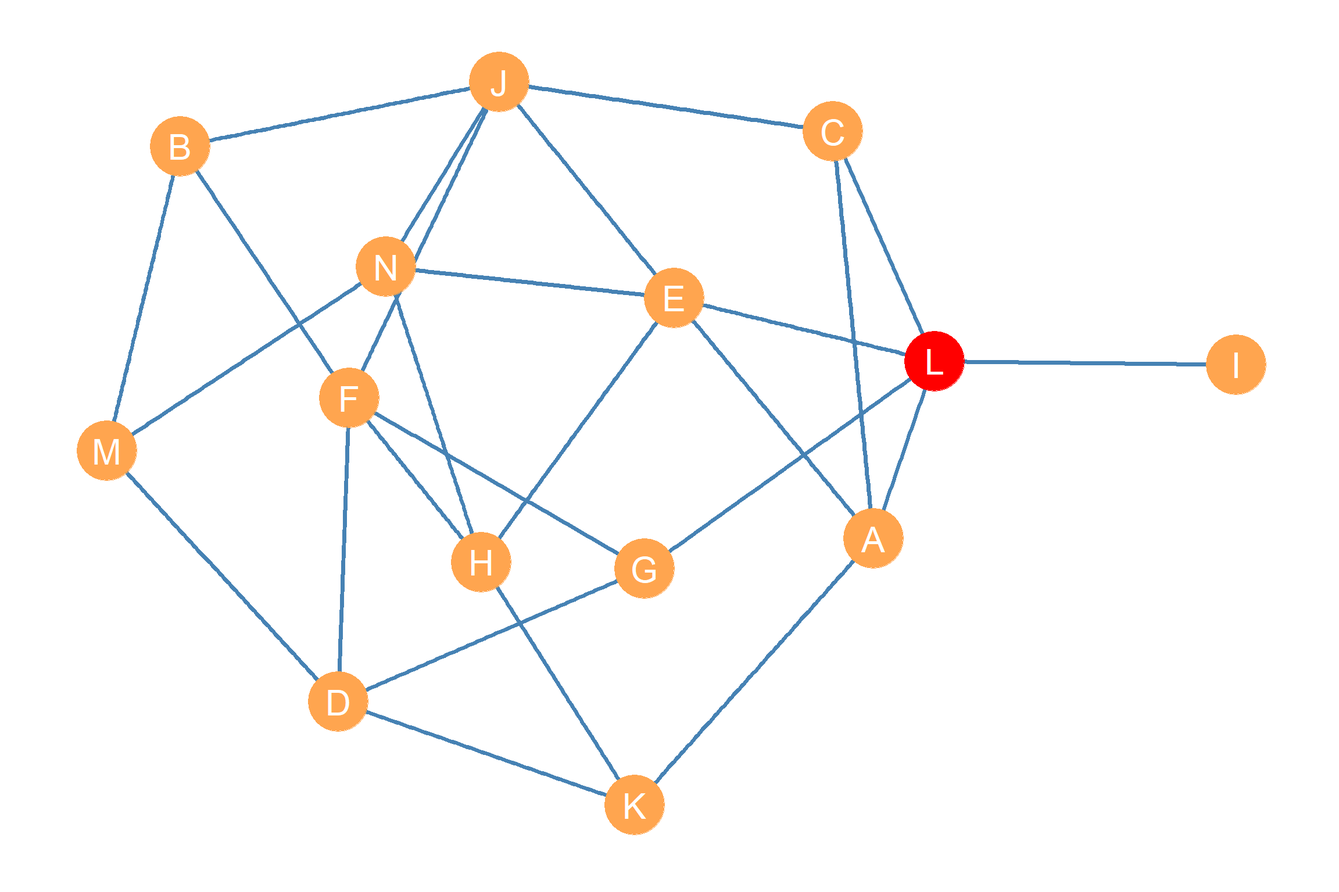
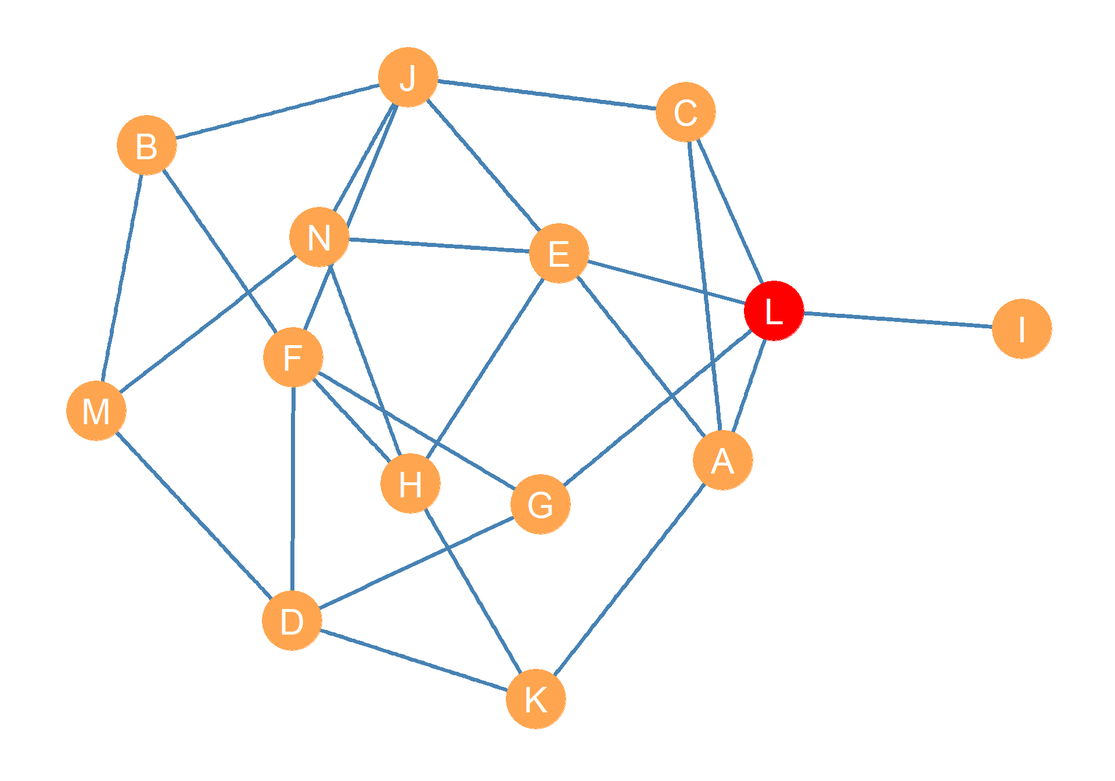
updated betweenness centrality lesson

diff --git a/docs/lesson-sna-betweenness.html b/docs/lesson-sna-betweenness.html
@@ -318,22 +318,23 @@ div.csl-indent {
 
 </header>
 
-<p>Recall that in our discussion of shortest paths between pair of nodes in <a href="lesson-graphs-paths.html"><span>Chapter&nbsp;9</span></a>, we noted the importance of the <strong>inner nodes</strong> that <em>intervene</em> or <em>mediate</em> between any one node in the graph that wants to reach another one. Nodes that stand in these <strong>brokerage</strong> or <strong>gatekeeper</strong> slots in the network <span class="citation" data-cites="gould_fernandez89">(<a href="#ref-gould_fernandez89" role="doc-biblioref">Gould and Fernandez 1989</a>)</span>, occupy an important position <span class="citation" data-cites="marsden83">(<a href="#ref-marsden83" role="doc-biblioref">Marsden 1983</a>)</span>, and this is different from having a lot of contacts (like degree centrality), or being able to reach lots of other nodes by traversing relatively small distances (like closeness centrality). Instead, this is about being <em>in-between</em> the indirect communications of other nodes in graph. In this chapter we discuss a couple of centrality metrics designed to capture the extent to which nodes serves as intermediaries between other nodes in a social network.</p>
+<p>Recall that in our discussion of shortest paths between pair of nodes in <a href="lesson-graphs-paths.html"><span>Chapter&nbsp;9</span></a>, we noted the importance of the <strong>inner nodes</strong> that <em>intervene</em> or <em>mediate</em> between any one node in the graph that wants to reach another one. Nodes that stand in these <strong>brokerage</strong> or <strong>gatekeeper</strong> slots in the network <span class="citation" data-cites="gould_fernandez89">(<a href="#ref-gould_fernandez89" role="doc-biblioref">Gould and Fernandez 1989</a>)</span>, occupy an important position <span class="citation" data-cites="marsden83">(<a href="#ref-marsden83" role="doc-biblioref">Marsden 1983</a>)</span>, and this is different from having a lot of contacts (like degree centrality; see <a href="lesson-sna-degree-centrality.html"><span>Chapter&nbsp;20</span></a>), or being able to reach lots of other nodes by traversing relatively small distances (like closeness centrality; see <span class="quarto-unresolved-ref">?sec-closcent</span>).</p>
+<p>Instead, the kind of centrality we are talking about is about being <em>in-between</em> the indirect communications of other nodes in graph. In this chapter we discuss some centrality metrics designed to capture the extent to which nodes serves as <em>intermediaries</em> between other nodes in a social network.</p>
 <section id="stress-centrality" class="level2 page-columns page-full" data-number="22.1">
 <h2 data-number="22.1" class="anchored" data-anchor-id="stress-centrality"><span class="header-section-number">22.1</span> Stress Centrality</h2>
-<p>For instance, let’s say you were actor <em>K</em> in the network shown in <a href="#fig-bet">Figure&nbsp;<span>22.1</span></a>, and you wanted to know who is the person that you depend on the most to communicate with actor <em>J</em>. Here dependence means that you are forced to “go through them.” One way <em>K</em> could figure this out is by listing every shortest path having them as the <strong>origin node</strong> and having <em>J</em> as the <strong>destination node</strong>.</p>
-<p>After you have this list, you can see which of other other nodes shows up as an <strong>inner node</strong>—an intermediary or gatekeeper—in those paths the most times. Remember that two actors can be indirectly linked by <em>multiple shortest paths of the same length</em>, and that we can figure out how many short paths links pairs of actors in the network using the <strong>shortest paths matrix</strong>.</p>
+<p>For instance, let’s say you were actor <span class="math inline">\(K\)</span> in the network shown in <a href="#fig-bet">Figure&nbsp;<span>22.1</span></a>, and you wanted to know who is the person that you depend on the most to communicate with actor <span class="math inline">\(J\)</span>. Here dependence means that you are forced to “go through them.” One way <span class="math inline">\(K\)</span> could figure this out is by listing every shortest path having them as the <strong>origin node</strong> and having <span class="math inline">\(J\)</span> as the <strong>destination node</strong>.</p>
+<p>After you have this list, you can see which of other other nodes shows up as an <strong>inner node</strong>—an intermediary or gatekeeper—in those paths the most times. Remember that two actors can be indirectly linked by <em>multiple shortest paths of the same length</em>.</p>
 <div class="cell" data-fig-cap-location="margin">
 <div class="cell-output-display">
 <div id="fig-bet" class="quarto-figure quarto-figure-center anchored">
 <figure class="figure">
-<p><img src="lesson-sna-betweenness_files/figure-html/fig-bet-1.png" class="img-fluid figure-img" width="1152"></p>
+<p><img src="lesson-sna-betweenness_files/figure-html/fig-bet-1.png" class="img-fluid figure-img" width="960"></p>
 <p></p><figcaption class="figure-caption">Figure&nbsp;22.1: An undirected graph showing the node with the maximum betweenness centrality (in red)</figcaption><p></p>
 </figure>
 </div>
 </div>
 </div>
-<p>This shortest path list would look like this:</p>
+<p>This shortest path list between <span class="math inline">\(K\)</span> and <span class="math inline">\(J\)</span> would look like this:</p>
 <ol type="1">
 <li><p><span class="math inline">\(\{KH, HF, FJ\}\)</span></p></li>
 <li><p><span class="math inline">\(\{KD, DF, FJ\}\)</span></p></li>
@@ -342,9 +343,9 @@ div.csl-indent {
 <li><p><span class="math inline">\(\{KA, AE, EJ\}\)</span></p></li>
 <li><p><span class="math inline">\(\{KH, HE, EJ\}\)</span></p></li>
 </ol>
-<p>There are six shortest paths (in this case of length <span class="math inline">\(l = 3\)</span>) indirectly connecting actors <em>K</em> and <em>J</em> in <a href="#fig-bet">Figure&nbsp;<span>22.1</span></a>, with nodes <span class="math inline">\(\{A, C, D, E, F, H, N\}\)</span> showing up as an inner node in at least one of those paths. To see which other actor in the network is the most <em>frequent intermediary</em> between <em>K</em> and <em>J</em>, we can create a list with the number of times each of these nodes shows up as an inner node in the shortest path list shown earlier.</p>
-<p>We will call each of these numbers <span class="math inline">\(n_{K(x)J}\)</span>, where the little <span class="math inline">\(x\)</span> in parentheses indicates the inner node we are talking about standing between <span class="math inline">\(K\)</span> and <span class="math inline">\(J\)</span>. For instance, <span class="math inline">\(n_{K(A)J}\)</span> refers to the number of times node <span class="math inline">\(A\)</span> stands on a shortest path linking <span class="math inline">\(K\)</span> and <span class="math inline">\(J\)</span>, and so forth for each of the nodes in the inner node set <span class="math inline">\(\{A, C, D, E, F, H, N\}\)</span>.</p>
-<p>The table containing this information would look like that shown in <a href="#tbl-pairdep">Table&nbsp;<span>22.1</span></a>.</p>
+<p>As the list shows, there are six shortest paths (in this case of length <span class="math inline">\(l = 3\)</span>) indirectly connecting actors <span class="math inline">\(K\)</span> and <span class="math inline">\(J\)</span> in <a href="#fig-bet">Figure&nbsp;<span>22.1</span></a>, with nodes <span class="math inline">\(\{A, C, D, E, F, H, N\}\)</span> showing up as an inner node in at least one of those paths.</p>
+<p>To see which other actor in the network is the most <em>frequent intermediary</em> between <span class="math inline">\(K\)</span> and <span class="math inline">\(J\)</span>, we can create a list with the number of times each of these nodes shows up as an inner node in the shortest path list shown earlier. We will call each of these numbers <span class="math inline">\(n_{K(x)J}\)</span>, where the little <span class="math inline">\(x\)</span> in parentheses in-between the little <span class="math inline">\(K\)</span> and the little <span class="math inline">\(J\)</span> indicates the inner node we are talking about. For instance, <span class="math inline">\(n_{K(A)J}\)</span> refers to the number of times node <span class="math inline">\(A\)</span> stands on a shortest path linking <span class="math inline">\(K\)</span> and <span class="math inline">\(J\)</span>, and so forth for each of the nodes in the inner node set <span class="math inline">\(\{A, C, D, E, F, H, N\}\)</span>.</p>
+<p>Using the the shortest path list mentioned earlier, the table containing this information would look like that shown in <a href="#tbl-pairdep">Table&nbsp;<span>22.1</span></a>.</p>
 <div class="cell page-columns page-full">
 <div class="cell-output-display page-columns page-full">
 <div id="tbl-pairdep" class="anchored page-columns page-full">
@@ -398,18 +399,18 @@ div.csl-indent {
 <div class="quarto-table-caption margin-caption">Table&nbsp;22.1: Intermediaries between nodes J and K</div></div>
 </div>
 </div>
-<p>So it looks like, looking at the second column of <a href="#tbl-pairdep">Table&nbsp;<span>22.1</span></a>, that <em>H</em> is the other actor that <em>J</em> depends on the most to reach <em>K</em>, since they show up three times in the paths linking <em>K</em> and <em>J</em>—meaning that <span class="math inline">\(n_{K(H)J} = 3\)</span>—beating out all the other nodes.</p>
+<p>So it looks like, looking at the second column of <a href="#tbl-pairdep">Table&nbsp;<span>22.1</span></a>, that <span class="math inline">\(H\)</span> is the other actor that <span class="math inline">\(J\)</span> depends on the most to reach <span class="math inline">\(K\)</span>, since they show up three times in the paths linking <span class="math inline">\(K\)</span> and <span class="math inline">\(J\)</span> (<span class="math inline">\(n_{K(H)J} = 3\)</span>) beating out all the other nodes.</p>
 <p>We can use this information—aggregated across all pairs of nodes in the graph for every other node—to construct a centrality metric. That is, for each node in the graph <span class="math inline">\(k\)</span> we can ask how often they show up as an intermediary between every other pair of nodes in the graph <span class="math inline">\(i\)</span> and <span class="math inline">\(j\)</span> and then we sum up this quantity across all pairs. This centrality index was first proposed by Alfonso <span class="citation" data-cites="shimbel53">Shimbel (<a href="#ref-shimbel53" role="doc-biblioref">1953</a>)</span> and it is called the <strong>stress centrality</strong>.</p>
 <p>In equation form you write the stress centrality index like this:</p>
 <p><span id="eq-stress"><span class="math display">\[
 C^{STRESS}_k = \sum_{i \neq k} \sum_{j \neq k} n_{i(k)j}
 \tag{22.1}\]</span></span></p>
-<p>Which says that the stress centrality of node <span class="math inline">\(k\)</span> is the sum of the number of times they stand in a shortest path between each pair of nodes in the graph, excluding the pairs that include <span class="math inline">\(k\)</span> (recall that <span class="math inline">\(i \neq k\)</span> means “<span class="math inline">\(i\)</span> does not equal <span class="math inline">\(k\)</span>” in English).</p>
-<div class="cell page-columns page-full">
-<div class="cell-output-display page-columns page-full">
-<div id="tbl-stress" class="anchored page-columns page-full">
+<p>Which says that the stress centrality of node <span class="math inline">\(k\)</span> is the sum of the number of times they stand in a shortest path between each pair of nodes in the graph, excluding the pairs that include <span class="math inline">\(k\)</span> as either a starting or ending node in the path connecting them (recall that <span class="math inline">\(i \neq k\)</span> means “<span class="math inline">\(i\)</span> does not equal <span class="math inline">\(k\)</span>” in English).</p>
+<div class="cell">
+<div class="cell-output-display">
+<div id="tbl-stress" class="anchored">
 
-<table class="table table-hover table-condensed table-responsive" style="margin-left: auto; margin-right: auto;">
+<table class="table table-hover table-condensed table-responsive" style="margin-left: auto; margin-right: auto;"><caption>Table&nbsp;22.2:  Stress centrality scores. </caption>
  <thead>
   <tr>
    <th style="text-align:center;"> A </th>
@@ -448,92 +449,79 @@ C^{STRESS}_k = \sum_{i \neq k} \sum_{j \neq k} n_{i(k)j}
 </tbody>
 </table>
 
-<div class="quarto-table-caption margin-caption">Table&nbsp;22.2:  Stress centrality scores. </div></div>
+</div>
 </div>
 </div>
 <p><a href="#tbl-stress">Table&nbsp;<span>22.2</span></a> shows the results of computing the stress centralities for all the nodes in <a href="#fig-bet">Figure&nbsp;<span>22.1</span></a>. It is clear that according to this metric, nodes <span class="math inline">\(E\)</span> and <span class="math inline">\(J\)</span> win out, standing in the middle of a whopping <span class="math inline">\(n_{i(E)j} = n_{i(J)j} = 48\)</span> shortest paths between other nodes in <a href="#fig-bet">Figure&nbsp;<span>22.1</span></a>. Node <span class="math inline">\(I\)</span> receives a stress centrality score of <span class="math inline">\(n_{i(I)j} = 0\)</span> because they are not an inner node between any other pair of nodes.</p>
 </section>
-<section id="betweenness-centrality" class="level2 page-columns page-full" data-number="22.2">
+<section id="betweenness-centrality" class="level2" data-number="22.2">
 <h2 data-number="22.2" class="anchored" data-anchor-id="betweenness-centrality"><span class="header-section-number">22.2</span> Betweenness Centrality</h2>
-<p>While Shimbel’s Stress Centrality idea goes a long way to capturing the idea of who the most intermediary nodes are, it can be improved upon. This is what was noted by Anthonisse and later Linton Freeman in a landmark series of papers, where they developed a centrality metric aimed to measure node intermediation called <strong>betweenness centrality</strong> <span class="citation" data-cites="freeman77">Freeman (<a href="#ref-freeman80" role="doc-biblioref">1980</a>)</span></p>
+<p>While Shimbel’s Stress Centrality idea goes a long way to capturing the idea of who the most intermediary nodes are, it can be improved upon. This is what was noted by Anthonisse and later Linton Freeman in a landmark series of papers, where they developed a centrality metric aimed to measure node intermediation called <strong>betweenness centrality</strong> <span class="citation" data-cites="anthonisse71 freeman77 freeman80">(<a href="#ref-anthonisse71" role="doc-biblioref">Anthonisse 1971</a>; <a href="#ref-freeman77" role="doc-biblioref">Freeman 1977</a>, <a href="#ref-freeman80" role="doc-biblioref">1980</a>)</span></p>
 <p>The basic observation behind betweenness centrality is pretty simple. It rests on the idea that rather than <em>counting</em> the raw number of shortest paths a particular node sits on as an inner node, it is better to look at the <em>percentage</em> (or proportion) of such paths.</p>
-<p>Let us return to our earlier example featuring nodes <span class="math inline">\(K\)</span> and <span class="math inline">\(J\)</span> as the end nodes. To measure the proportion of shortest paths featuring nodes in the inner node set <span class="math inline">\(\{A, C, D, E, F, H, N\}\)</span> standing between <span class="math inline">\(K\)</span> and <span class="math inline">\(J\)</span>, we simplyt take <span class="math inline">\(n_{K(x)J}\)</span> and divide it by the total number of shortests paths between <span class="math inline">\(K\)</span> and <span class="math inline">\(J\)</span>, whih we already noted was six. Let us call this new quantity <span class="math inline">\(p_{K(x)J}\)</span> which can be read as “the proportion of paths between <em>K</em> and <em>J</em> featuring node <span class="math inline">\(x\)</span> as an inner node.” This is shown in the third column of <a href="#tbl-pairdep">Table&nbsp;<span>22.1</span></a>.</p>
-<p>Let’s say we wanted to calculate <span class="math inline">\(p_{K(x)J}\)</span> for node <span class="math inline">\(H\)</span>, written <span class="math inline">\(p_{K(H)J}\)</span>. We can write this in equation form like this:</p>
+<p>Let us return to our earlier example featuring nodes <span class="math inline">\(K\)</span> and <span class="math inline">\(J\)</span> as the end nodes. To measure the proportion of shortest paths featuring nodes in the inner node set <span class="math inline">\(\{A, C, D, E, F, H, N\}\)</span> standing between <span class="math inline">\(K\)</span> and <span class="math inline">\(J\)</span>, we simply take <span class="math inline">\(n_{K(x)J}\)</span> and divide it by the <em>total</em> number of shortest paths between <span class="math inline">\(K\)</span> and <span class="math inline">\(J\)</span>. We will call this quantity <span class="math inline">\(n_{KJ}\)</span>, and we already noted from the list we constructed before that was <span class="math inline">\(n_{KJ} = 6\)</span>. The new quantity that results from dividing up <span class="math inline">\(n_{K(x)J}\)</span> (for any <span class="math inline">\(x\)</span>) by <span class="math inline">\(n_{KJ}\)</span> we will call <span class="math inline">\(p_{K(x)J}\)</span> where the <span class="math inline">\(p\)</span> is a shorthand for the <em>proportion</em> of paths between <span class="math inline">\(K\)</span> and <span class="math inline">\(J\)</span> featuring node <span class="math inline">\(x\)</span> as an inner node.</p>
+<p>For instance, let’s say we wanted to calculate <span class="math inline">\(p_{K(x)J}\)</span> for node <span class="math inline">\(H\)</span>, written <span class="math inline">\(p_{K(H)J}\)</span>. We can write this in equation form like this:</p>
 <p><span id="eq-pairdep"><span class="math display">\[
   p_{K(H)J} = \frac{n_{K(H)J}}{n_{KJ}} = \frac{3}{6} = 0.5
 \tag{22.2}\]</span></span></p>
-<p>Just as before, in <a href="#eq-pairdep">Equation&nbsp;<span>22.2</span></a>, <span class="math inline">\(n_{K(H)J}\)</span> is the number of shortest paths linking <em>K</em> and <em>J</em> featuring <em>H</em> as an inner node, and <span class="math inline">\(n_{KJ}\)</span> is the <em>total</em> number of shortest paths linking <em>K</em> and <em>J</em>.</p>
-<p><span class="citation" data-cites="freeman80">Freeman (<a href="#ref-freeman80" role="doc-biblioref">1980</a>)</span> calls the measure in <a href="#eq-pairdep">Equation&nbsp;<span>22.2</span></a> the <strong>pair-dependency</strong> of actor <em>K</em> on actor <em>H</em> to reach a given node <em>J</em>. In this case, <span class="math inline">\(n_{K(H)J} = 3\)</span> and <span class="math inline">\(n_{KJ} = 6\)</span>, which means that actor <em>K</em> depends on actor <em>H</em> for fifty percent of their shortest path access to <em>J</em>. Making <em>H</em> the actor in the network <em>J</em> depends on the most to be able to reach <em>J</em>. The third column of <a href="#tbl-pairdep">Table&nbsp;<span>22.1</span></a> shows the <span class="math inline">\(p_{K(x)J}\)</span> scores for all the nodes in the inner node set <span class="math inline">\(\{A, C, D, E, F, H, N\}\)</span> standing between <span class="math inline">\(K\)</span> and <span class="math inline">\(J\)</span>.</p>
-<p>Generalizing this approach, we can do the same for each triplet of actors <em>i</em>, <em>j</em>, and <em>k</em> in <a href="#fig-bet">Figure&nbsp;<span>22.1</span></a> This is the basis for calculating <strong>betweenness centrality</strong>. That is, we can count the number of times <em>k</em> stands on the shortest path between two other actors <em>i</em> and <em>j</em>, we can then divide it by the total number of shortest paths linking actors <em>i</em> and <em>j</em> in the network.</p>
-<p>This ratio, written <span class="math inline">\(\frac{n_{i(k)j}}{n_{ij}}\)</span> then gives us the <em>proportion</em> of shortest paths in the network that have <em>i</em> and <em>j</em> as the end nodes and that feature <em>k</em> as an intermediary inner node, written <span class="math inline">\(p_{i(k)j}\)</span>. This can range from zero (no shortest paths between <em>i</em> and <em>j</em> feature node <em>k</em> as an intermediary) to one (all the shortest paths between <em>i</em> and <em>j</em> feature node <em>k</em> as an intermediary).</p>
-<p>We can then use the following equation to compute the average of this proportion for each node <em>k</em> across each pair of actors in the network <em>i</em> and <em>j</em>:</p>
+<p>Just as before, in <a href="#eq-pairdep">Equation&nbsp;<span>22.2</span></a>, <span class="math inline">\(n_{K(H)J}\)</span> is the number of shortest paths linking <span class="math inline">\(K\)</span> and <span class="math inline">\(J\)</span> featuring <span class="math inline">\(H\)</span> as an inner node, and <span class="math inline">\(n_{KJ}\)</span> is the <em>total</em> number of shortest paths linking <span class="math inline">\(K\)</span> and <span class="math inline">\(J\)</span>. In this case, <span class="math inline">\(n_{K(H)J} = 3\)</span> and <span class="math inline">\(n_{KJ} = 6\)</span>, which means that actor <span class="math inline">\(K\)</span> depends on actor <span class="math inline">\(H\)</span> for <em>fifty percent</em> of their shortest path access to <span class="math inline">\(J\)</span>. Making <span class="math inline">\(H\)</span> the actor in the network <span class="math inline">\(K\)</span> depends on the most to be able to reach <span class="math inline">\(J\)</span>. The third column of <a href="#tbl-pairdep">Table&nbsp;<span>22.1</span></a> shows the <span class="math inline">\(p_{K(x)J}\)</span> scores for all the nodes in the inner node set <span class="math inline">\(\{A, C, D, E, F, H, N\}\)</span> standing between <span class="math inline">\(K\)</span> and <span class="math inline">\(J\)</span>. <span class="citation" data-cites="freeman80">Freeman (<a href="#ref-freeman80" role="doc-biblioref">1980</a>)</span> calls the measure in <a href="#eq-pairdep">Equation&nbsp;<span>22.2</span></a> the <strong>pair-dependency</strong> of actor <span class="math inline">\(K\)</span> on actor <span class="math inline">\(H\)</span> to reach a given node <span class="math inline">\(J\)</span>.</p>
+<p>Generalizing this approach, we can do the same for each triplet of actors <span class="math inline">\(i\)</span>, <span class="math inline">\(j\)</span>, and <span class="math inline">\(k\)</span> in <a href="#fig-bet">Figure&nbsp;<span>22.1</span></a> This is the basis for calculating <strong>betweenness centrality</strong>. That is, we can count the number of times <span class="math inline">\(K\)</span> stands on the shortest path between two other actors <span class="math inline">\(i\)</span> and <span class="math inline">\(j\)</span>, we can then divide it by the total number of shortest paths linking actors <span class="math inline">\(i\)</span> and <span class="math inline">\(j\)</span> in the network. As noted, this ratio gives us the <em>proportion</em> of shortest paths in the network that have <span class="math inline">\(i\)</span> and <span class="math inline">\(J\)</span> as the end nodes and that feature <span class="math inline">\(K\)</span> as an intermediary inner node, which we can call <span class="math inline">\(p_{i(k)j}\)</span>. In equation form:</p>
+<p><span id="eq-pk"><span class="math display">\[
+p_{i(k)j} = \frac{n_{i(k)j}}{n_{ij}}
+\tag{22.3}\]</span></span></p>
+<p>For each node triple in the graph, <span class="math inline">\(p_{i(k)j}\)</span> can range from zero (no shortest paths between <span class="math inline">\(i\)</span> and <span class="math inline">\(j\)</span> feature node <span class="math inline">\(k\)</span> as an intermediary) to one (all the shortest paths between <span class="math inline">\(i\)</span> and <span class="math inline">\(J\)</span> feature node <span class="math inline">\(k\)</span> as an intermediary). <a href="#eq-pk">Equation&nbsp;<span>22.3</span></a> can also be interpreted as giving us the <em>probability</em> that if we were to select a random shortest path among the ones that link nodes <span class="math inline">\(i\)</span> and <span class="math inline">\(j\)</span>, we would find <span class="math inline">\(k\)</span> in the middle of it.</p>
+<p>We can then use the following equation to compute the sum of these proportions for each node <span class="math inline">\(k\)</span> across each pair of actors in the network <span class="math inline">\(i\)</span> and <span class="math inline">\(j\)</span>. This gives us the total <strong>betweenness centrality</strong> of any node <span class="math inline">\(k\)</span> in the graph:</p>
 <p><span id="eq-betcen"><span class="math display">\[
   C_k^{BET} = \sum_{i \neq k} \sum_{j \neq k} p_{i(k)j}
-\tag{22.3}\]</span></span></p>
-<p>Computing this quantity for the graph shown in <a href="#fig-bet">Figure&nbsp;<span>22.1</span></a>, yields the betweenness centrality scores shown in <a href="#tbl-bet">Table&nbsp;<span>22.3</span></a>.</p>
-<div class="cell page-columns page-full">
-<div class="cell-output-display page-columns page-full">
-<div id="tbl-bet" class="anchored page-columns page-full">
-<table class="table table-sm table-striped">
+\tag{22.4}\]</span></span></p>
+<p>Computing this sum for each node in the graph shown in <a href="#fig-bet">Figure&nbsp;<span>22.1</span></a>, yields the betweenness centrality scores shown in <a href="#tbl-bet">Table&nbsp;<span>22.3</span></a>.</p>
+<div class="cell">
+<div class="cell-output-display">
+<div id="tbl-bet" class="anchored">
 
-<colgroup>
-<col style="width: 8%">
-<col style="width: 4%">
-<col style="width: 7%">
-<col style="width: 8%">
-<col style="width: 7%">
-<col style="width: 8%">
-<col style="width: 7%">
-<col style="width: 7%">
-<col style="width: 7%">
-<col style="width: 7%">
-<col style="width: 7%">
-<col style="width: 4%">
-<col style="width: 7%">
-<col style="width: 4%">
-</colgroup>
-<thead>
-<tr class="header">
-<th style="text-align: center;">E</th>
-<th style="text-align: center;">A</th>
-<th style="text-align: center;">M</th>
-<th style="text-align: center;">L</th>
-<th style="text-align: center;">B</th>
-<th style="text-align: center;">J</th>
-<th style="text-align: center;">G</th>
-<th style="text-align: center;">N</th>
-<th style="text-align: center;">F</th>
-<th style="text-align: center;">H</th>
-<th style="text-align: center;">D</th>
-<th style="text-align: center;">C</th>
-<th style="text-align: center;">K</th>
-<th style="text-align: center;">I</th>
-</tr>
-</thead>
+<table class="table table-hover table-condensed table-responsive" style="margin-left: auto; margin-right: auto;"><caption>Table&nbsp;22.3:  Betweenness centrality scores. </caption>
+ <thead>
+  <tr>
+   <th style="text-align:center;"> A </th>
+   <th style="text-align:center;"> B </th>
+   <th style="text-align:center;"> C </th>
+   <th style="text-align:center;"> D </th>
+   <th style="text-align:center;"> E </th>
+   <th style="text-align:center;"> F </th>
+   <th style="text-align:center;"> G </th>
+   <th style="text-align:center;"> H </th>
+   <th style="text-align:center;"> I </th>
+   <th style="text-align:center;"> J </th>
+   <th style="text-align:center;"> K </th>
+   <th style="text-align:center;"> L </th>
+   <th style="text-align:center;"> M </th>
+   <th style="text-align:center;"> N </th>
+  </tr>
+ </thead>
 <tbody>
-<tr class="odd">
-<td style="text-align: center;">11.4</td>
-<td style="text-align: center;">5</td>
-<td style="text-align: center;">2.8</td>
-<td style="text-align: center;">16.4</td>
-<td style="text-align: center;">1.5</td>
-<td style="text-align: center;">10.8</td>
-<td style="text-align: center;">6.3</td>
-<td style="text-align: center;">5.3</td>
-<td style="text-align: center;">9.3</td>
-<td style="text-align: center;">4.8</td>
-<td style="text-align: center;">6.8</td>
-<td style="text-align: center;">3</td>
-<td style="text-align: center;">3.7</td>
-<td style="text-align: center;">0</td>
-</tr>
+  <tr>
+   <td style="text-align:center;"> 5 </td>
+   <td style="text-align:center;"> 1.5 </td>
+   <td style="text-align:center;"> 3 </td>
+   <td style="text-align:center;"> 6.8 </td>
+   <td style="text-align:center;"> 11.4 </td>
+   <td style="text-align:center;"> 9.3 </td>
+   <td style="text-align:center;"> 6.3 </td>
+   <td style="text-align:center;"> 4.8 </td>
+   <td style="text-align:center;"> 0 </td>
+   <td style="text-align:center;"> 10.8 </td>
+   <td style="text-align:center;"> 3.7 </td>
+   <td style="text-align:center;"> 16.4 </td>
+   <td style="text-align:center;"> 2.8 </td>
+   <td style="text-align:center;"> 5.3 </td>
+  </tr>
 </tbody>
 </table>
-<div class="quarto-table-caption margin-caption">Table&nbsp;22.3: Betweenness centrality scores.</div></div>
+
 </div>
 </div>
-<p>The numbers in the Table can be readily interpreted as percentages (or probabilities). Thus, the fact that node <em>J</em> has a a betweenness centrality score of 10.8 tells us that they stand in about 11% of the shortest paths between pairs of nodes in the graph. Alternatively, it says that if pick a shortest path betweenn any two pair of random nodes <span class="math inline">\(i\)</span> and <span class="math inline">\(j\)</span> there’s an 11% chance that <span class="math inline">\(J\)</span> will be one of the inner nodes in that path.</p>
-<p>Interestingly, as shown in <a href="#fig-bet">Figure&nbsp;<span>22.1</span></a>, the node that ends up with the highest betweenness score is <em>L</em> (<span class="math inline">\(C_L^{BET} = 16.4\)</span>), which is different from the result we got using the stress centralities scores in <a href="#tbl-stress">Table&nbsp;<span>22.2</span></a>. This is mostly due to the fact that node <em>I</em>, who has the lowest possible betweenness score of zero, depends on this node for access to every other actor in the network.</p>
+</div>
+<p>In <a href="#eq-betcen">Equation&nbsp;<span>22.4</span></a>, the betweenness centrality of a node <span class="math inline">\(k\)</span> goes up by one whole point if they are they can be found as an inner node in <em>all</em> the shortest paths indirectly linking <span class="math inline">\(i\)</span> and <span class="math inline">\(j\)</span>, otherwise the sum goes up by a quantity (larger than zero but less than one) that is equal to the <em>proportion</em> of the paths between <span class="math inline">\(i\)</span> and <span class="math inline">\(j\)</span> that <span class="math inline">\(k\)</span> stands on.</p>
+<p>Interestingly, as shown in <a href="#fig-bet">Figure&nbsp;<span>22.1</span></a>, the node that ends up with the highest betweenness score is <span class="math inline">\(L\)</span> (<span class="math inline">\(C_L^{BET} = 16.4\)</span>), which is different from the result we got using the stress centralities scores in <a href="#tbl-stress">Table&nbsp;<span>22.2</span></a>. This is mostly due to the fact that node <span class="math inline">\(i\)</span>, who has the lowest possible betweenness score of zero, depends on this node for access to every other actor in the network.</p>
 <p>Note also that two <em>different</em> nodes end up being ranked first on closeness—as we saw on <span class="quarto-unresolved-ref">?sec-closeness</span>—and betweenness centrality in the same network (compare the red nodes in <a href="lesson-sna-closeness.html#fig-clos">Figure&nbsp;<span>21.1</span></a> and <a href="#fig-bet">Figure&nbsp;<span>22.1</span></a>). This tells us that closeness and betweenness are analytically distinct measures of node position. One (closeness) gets at reachability, and the other (betweenness) gets at intermediation potential.</p>
 </section>
 <section id="references" class="level2 unnumbered">
@@ -541,6 +529,9 @@ C^{STRESS}_k = \sum_{i \neq k} \sum_{j \neq k} n_{i(k)j}
 
 
 <div id="refs" class="references csl-bib-body hanging-indent" role="doc-bibliography">
+<div id="ref-anthonisse71" class="csl-entry" role="doc-biblioentry">
+Anthonisse, Jac M. 1971. <span>“The Rush in a Directed Graph.”</span> <em>Stichting Mathematisch Centrum. Mathematische Besliskunde</em>, no. BN 9/71.
+</div>
 <div id="ref-freeman77" class="csl-entry" role="doc-biblioentry">
 Freeman, Linton C. 1977. <span>“A Set of Measures of Centrality Based on Betweenness.”</span> <em>Sociometry</em> 40 (1): 35–41.
 </div>
